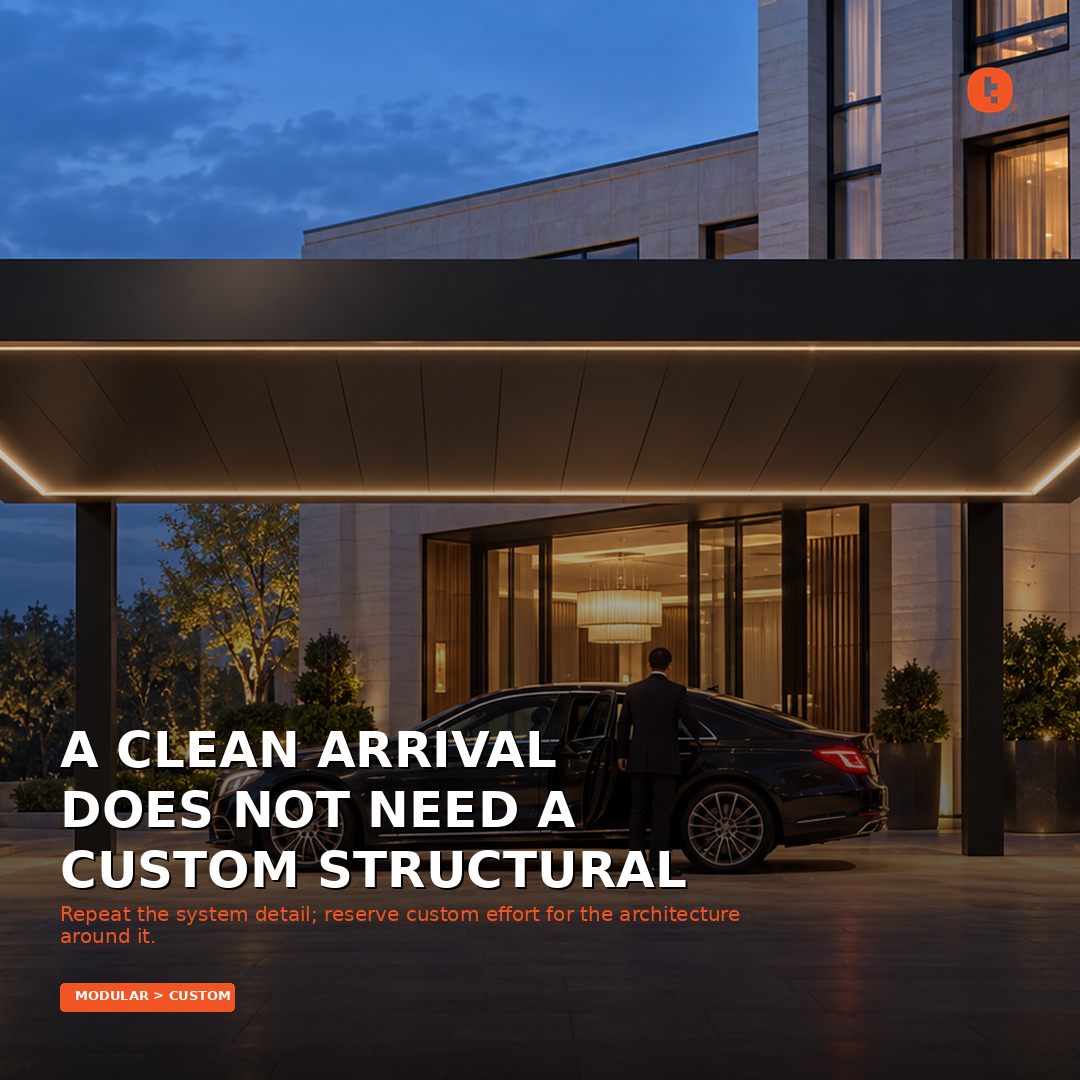
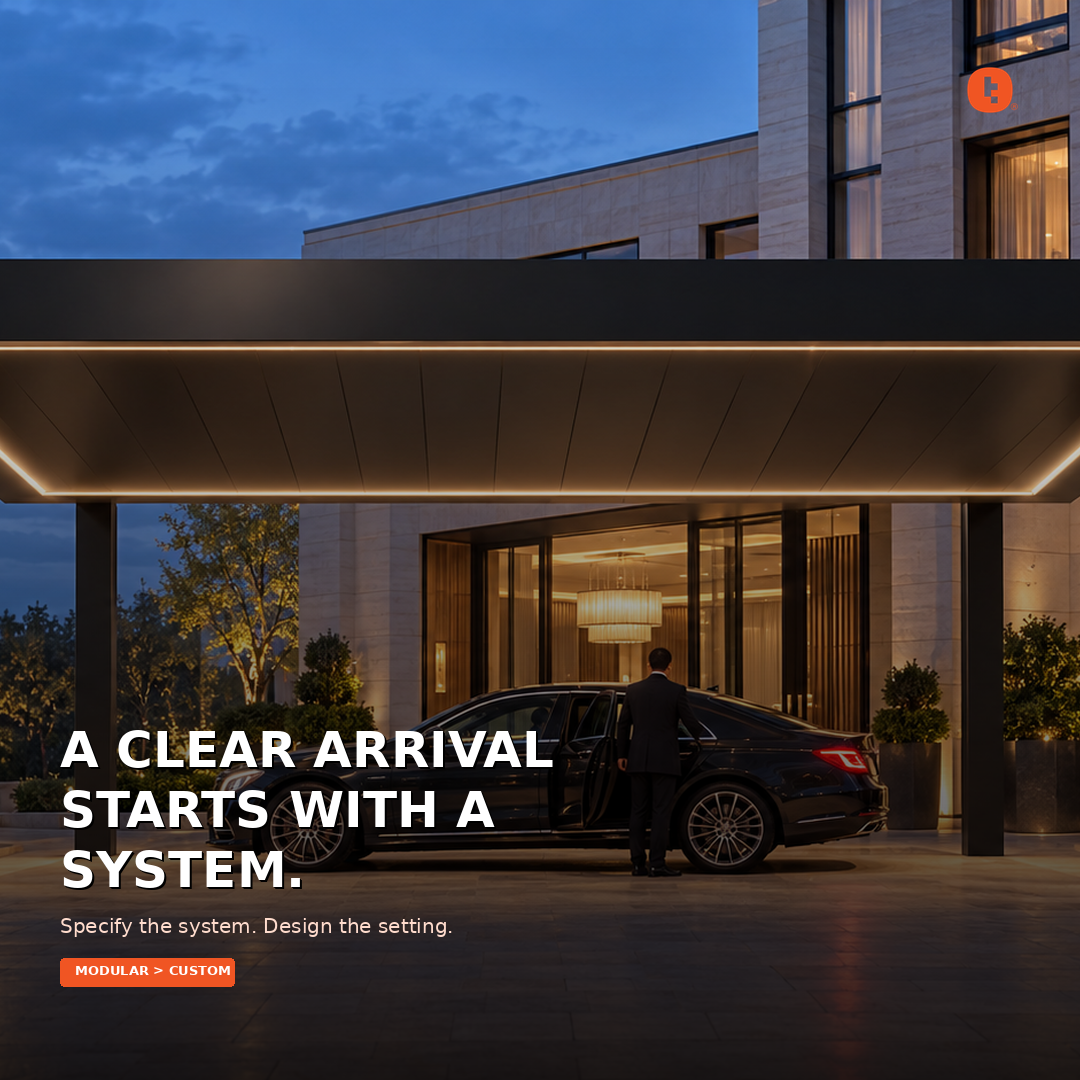
Improve Week 42 review creatives

Changed region(s): [[0.0306, 0.6722, 0.6722, 0.9472]]

diff --git a/index.html b/index.html
@@ -19,11 +19,11 @@ h2 span{font-size:12px;color:var(--teal);margin-left:5px}.grid{display:grid;grid
 </style></head><body>
 <header><h1>Tudelü — Week 2026-W42 Content Review</h1>
 <div class="sub">45 posts ready: Instagram (21), LinkedIn (5), Facebook (5), Pinterest (5), Threads (5), short-form video (3), and Google Business Profile (1). Review each card and use Approve, Revision, or Decline to email feedback. Before publishing, please upload real Tudelü project photos and videos to replace generated placeholder imagery wherever available.</div>
-<nav class="nav"><a href="#instagram">Instagram</a><a href="#linkedin">LinkedIn</a><a href="#facebook">Facebook</a><a href="#pinterest">Pinterest</a><a href="#videos">Videos</a><a href="#threads">Threads</a><a href="#gbp">Google Business Profile</a></nav></header><main><section id="instagram"><h2>Instagram <span>21</span></h2><div class="grid"><article class="tile"><div class="media"><img loading="lazy" src="images/instagram/post_01.png" alt="Instagram 1"/></div><div class="copy"><div class="label">Instagram 1</div><p>Insight: A clean arrival does not need a custom structural answer.
+<nav class="nav"><a href="#instagram">Instagram</a><a href="#linkedin">LinkedIn</a><a href="#facebook">Facebook</a><a href="#pinterest">Pinterest</a><a href="#videos">Videos</a><a href="#threads">Threads</a><a href="#gbp">Google Business Profile</a></nav></header><main><section id="instagram"><h2>Instagram <span>21</span></h2><div class="grid"><article class="tile"><div class="media"><img loading="lazy" src="images/instagram/post_01.png" alt="Instagram 1"/></div><div class="copy"><div class="label">Instagram 1</div><p>Insight: A clear arrival starts with a system.
 
 Explanation: The hotel can feel distinct through its proportions and materials while the canopy detail stays resolved.
 
-Shift: Repeat the system detail; reserve custom effort for the architecture around it.
+Shift: Specify the system. Design the setting.
 
 Tudelü is a click-together modular aluminum system: no welding, concealed connections, a mitered continuous fascia and integrated LED. Four matte powder-coat colors. $60/sqft.</p></div><div class="meta"><div class="actions"><a class="btn approve" href="mailto:chaim.fischer@tudelu.com?subject=Approve%20%E2%80%94%202026-W42%20Instagram%201&amp;body=Notes%20for%202026-W42%20Instagram%201%3A%0A%0A">Approve</a><a class="btn revise" href="mailto:chaim.fischer@tudelu.com?subject=Revision%20%E2%80%94%202026-W42%20Instagram%201&amp;body=Notes%20for%202026-W42%20Instagram%201%3A%0A%0A">Revision</a><a class="btn decline" href="mailto:chaim.fischer@tudelu.com?subject=Decline%20%E2%80%94%202026-W42%20Instagram%201&amp;body=Notes%20for%202026-W42%20Instagram%201%3A%0A%0A">Decline</a></div></div></article><article class="tile"><div class="media"><img loading="lazy" src="images/instagram/post_02.png" alt="Instagram 2"/></div><div class="copy"><div class="label">Instagram 2</div><p>Insight: Consistency is part of the resident experience.
 
@@ -43,25 +43,25 @@ Explanation: Regular bays and concealed connections leave the crew free to focus
 
 Shift: Design out the improvisation before the crew mobilizes.
 
-Tudelü is a click-together modular aluminum system: no welding, concealed connections, a mitered continuous fascia and integrated LED. Four matte powder-coat colors. $60/sqft.</p></div><div class="meta"><div class="actions"><a class="btn approve" href="mailto:chaim.fischer@tudelu.com?subject=Approve%20%E2%80%94%202026-W42%20Instagram%204&amp;body=Notes%20for%202026-W42%20Instagram%204%3A%0A%0A">Approve</a><a class="btn revise" href="mailto:chaim.fischer@tudelu.com?subject=Revision%20%E2%80%94%202026-W42%20Instagram%204&amp;body=Notes%20for%202026-W42%20Instagram%204%3A%0A%0A">Revision</a><a class="btn decline" href="mailto:chaim.fischer@tudelu.com?subject=Decline%20%E2%80%94%202026-W42%20Instagram%204&amp;body=Notes%20for%202026-W42%20Instagram%204%3A%0A%0A">Decline</a></div></div></article><article class="tile"><div class="media"><img loading="lazy" src="images/instagram/post_05.png" alt="Instagram 5"/></div><div class="copy"><div class="label">Instagram 5</div><p>Insight: A product demo should explain the system at a glance.
+Tudelü is a click-together modular aluminum system: no welding, concealed connections, a mitered continuous fascia and integrated LED. Four matte powder-coat colors. $60/sqft.</p></div><div class="meta"><div class="actions"><a class="btn approve" href="mailto:chaim.fischer@tudelu.com?subject=Approve%20%E2%80%94%202026-W42%20Instagram%204&amp;body=Notes%20for%202026-W42%20Instagram%204%3A%0A%0A">Approve</a><a class="btn revise" href="mailto:chaim.fischer@tudelu.com?subject=Revision%20%E2%80%94%202026-W42%20Instagram%204&amp;body=Notes%20for%202026-W42%20Instagram%204%3A%0A%0A">Revision</a><a class="btn decline" href="mailto:chaim.fischer@tudelu.com?subject=Decline%20%E2%80%94%202026-W42%20Instagram%204&amp;body=Notes%20for%202026-W42%20Instagram%204%3A%0A%0A">Decline</a></div></div></article><article class="tile"><div class="media"><img loading="lazy" src="images/instagram/post_05.png" alt="Instagram 5"/></div><div class="copy"><div class="label">Instagram 5</div><p>Insight: A demo should make the system clear.
 
 Explanation: A full-scale sample lets buyers see the post, fascia, finish and hidden light channel in one conversation.
 
 Shift: Make the system tangible; make the sales explanation simpler.
 
-Tudelü is a click-together modular aluminum system: no welding, concealed connections, a mitered continuous fascia and integrated LED. Four matte powder-coat colors. $60/sqft.</p></div><div class="meta"><div class="actions"><a class="btn approve" href="mailto:chaim.fischer@tudelu.com?subject=Approve%20%E2%80%94%202026-W42%20Instagram%205&amp;body=Notes%20for%202026-W42%20Instagram%205%3A%0A%0A">Approve</a><a class="btn revise" href="mailto:chaim.fischer@tudelu.com?subject=Revision%20%E2%80%94%202026-W42%20Instagram%205&amp;body=Notes%20for%202026-W42%20Instagram%205%3A%0A%0A">Revision</a><a class="btn decline" href="mailto:chaim.fischer@tudelu.com?subject=Decline%20%E2%80%94%202026-W42%20Instagram%205&amp;body=Notes%20for%202026-W42%20Instagram%205%3A%0A%0A">Decline</a></div></div></article><article class="tile"><div class="media"><img loading="lazy" src="images/instagram/post_06.png" alt="Instagram 6"/></div><div class="copy"><div class="label">Instagram 6</div><p>Insight: The corner is where the specification becomes visible.
+Tudelü is a click-together modular aluminum system: no welding, concealed connections, a mitered continuous fascia and integrated LED. Four matte powder-coat colors. $60/sqft.</p></div><div class="meta"><div class="actions"><a class="btn approve" href="mailto:chaim.fischer@tudelu.com?subject=Approve%20%E2%80%94%202026-W42%20Instagram%205&amp;body=Notes%20for%202026-W42%20Instagram%205%3A%0A%0A">Approve</a><a class="btn revise" href="mailto:chaim.fischer@tudelu.com?subject=Revision%20%E2%80%94%202026-W42%20Instagram%205&amp;body=Notes%20for%202026-W42%20Instagram%205%3A%0A%0A">Revision</a><a class="btn decline" href="mailto:chaim.fischer@tudelu.com?subject=Decline%20%E2%80%94%202026-W42%20Instagram%205&amp;body=Notes%20for%202026-W42%20Instagram%205%3A%0A%0A">Decline</a></div></div></article><article class="tile"><div class="media"><img loading="lazy" src="images/instagram/post_06.png" alt="Instagram 6"/></div><div class="copy"><div class="label">Instagram 6</div><p>Insight: The corner reveals the real detail.
 
 Explanation: A seamless return makes the fascia read as one continuous extrusion instead of a collection of pieces.
 
 Shift: Evaluate the miter and the connection—not only the elevation.
 
-Tudelü is a click-together modular aluminum system: no welding, concealed connections, a mitered continuous fascia and integrated LED. Four matte powder-coat colors. $60/sqft.</p></div><div class="meta"><div class="actions"><a class="btn approve" href="mailto:chaim.fischer@tudelu.com?subject=Approve%20%E2%80%94%202026-W42%20Instagram%206&amp;body=Notes%20for%202026-W42%20Instagram%206%3A%0A%0A">Approve</a><a class="btn revise" href="mailto:chaim.fischer@tudelu.com?subject=Revision%20%E2%80%94%202026-W42%20Instagram%206&amp;body=Notes%20for%202026-W42%20Instagram%206%3A%0A%0A">Revision</a><a class="btn decline" href="mailto:chaim.fischer@tudelu.com?subject=Decline%20%E2%80%94%202026-W42%20Instagram%206&amp;body=Notes%20for%202026-W42%20Instagram%206%3A%0A%0A">Decline</a></div></div></article><article class="tile"><div class="media"><img loading="lazy" src="images/instagram/post_07.png" alt="Instagram 7"/></div><div class="copy"><div class="label">Instagram 7</div><p>Insight: Good entry lighting is part of the roofline.
+Tudelü is a click-together modular aluminum system: no welding, concealed connections, a mitered continuous fascia and integrated LED. Four matte powder-coat colors. $60/sqft.</p></div><div class="meta"><div class="actions"><a class="btn approve" href="mailto:chaim.fischer@tudelu.com?subject=Approve%20%E2%80%94%202026-W42%20Instagram%206&amp;body=Notes%20for%202026-W42%20Instagram%206%3A%0A%0A">Approve</a><a class="btn revise" href="mailto:chaim.fischer@tudelu.com?subject=Revision%20%E2%80%94%202026-W42%20Instagram%206&amp;body=Notes%20for%202026-W42%20Instagram%206%3A%0A%0A">Revision</a><a class="btn decline" href="mailto:chaim.fischer@tudelu.com?subject=Decline%20%E2%80%94%202026-W42%20Instagram%206&amp;body=Notes%20for%202026-W42%20Instagram%206%3A%0A%0A">Decline</a></div></div></article><article class="tile"><div class="media"><img loading="lazy" src="images/instagram/post_07.png" alt="Instagram 7"/></div><div class="copy"><div class="label">Instagram 7</div><p>Insight: Put the light inside the roofline.
 
 Explanation: A warm continuous LED recessed beneath the fascia lights the threshold without visible fixtures.
 
 Shift: Design the light into the canopy instead of adding it later.
 
-Tudelü is a click-together modular aluminum system: no welding, concealed connections, a mitered continuous fascia and integrated LED. Four matte powder-coat colors. $60/sqft.</p></div><div class="meta"><div class="actions"><a class="btn approve" href="mailto:chaim.fischer@tudelu.com?subject=Approve%20%E2%80%94%202026-W42%20Instagram%207&amp;body=Notes%20for%202026-W42%20Instagram%207%3A%0A%0A">Approve</a><a class="btn revise" href="mailto:chaim.fischer@tudelu.com?subject=Revision%20%E2%80%94%202026-W42%20Instagram%207&amp;body=Notes%20for%202026-W42%20Instagram%207%3A%0A%0A">Revision</a><a class="btn decline" href="mailto:chaim.fischer@tudelu.com?subject=Decline%20%E2%80%94%202026-W42%20Instagram%207&amp;body=Notes%20for%202026-W42%20Instagram%207%3A%0A%0A">Decline</a></div></div></article><article class="tile"><div class="media"><img loading="lazy" src="images/instagram/post_08.png" alt="Instagram 8"/></div><div class="copy"><div class="label">Instagram 8</div><p>Insight: A campus detail should repeat without becoming generic.
+Tudelü is a click-together modular aluminum system: no welding, concealed connections, a mitered continuous fascia and integrated LED. Four matte powder-coat colors. $60/sqft.</p></div><div class="meta"><div class="actions"><a class="btn approve" href="mailto:chaim.fischer@tudelu.com?subject=Approve%20%E2%80%94%202026-W42%20Instagram%207&amp;body=Notes%20for%202026-W42%20Instagram%207%3A%0A%0A">Approve</a><a class="btn revise" href="mailto:chaim.fischer@tudelu.com?subject=Revision%20%E2%80%94%202026-W42%20Instagram%207&amp;body=Notes%20for%202026-W42%20Instagram%207%3A%0A%0A">Revision</a><a class="btn decline" href="mailto:chaim.fischer@tudelu.com?subject=Decline%20%E2%80%94%202026-W42%20Instagram%207&amp;body=Notes%20for%202026-W42%20Instagram%207%3A%0A%0A">Decline</a></div></div></article><article class="tile"><div class="media"><img loading="lazy" src="images/instagram/post_08.png" alt="Instagram 8"/></div><div class="copy"><div class="label">Instagram 8</div><p>Insight: Repeat the detail; keep the campus distinct.
 
 Explanation: Regular bays organize a long pedestrian route while the host buildings keep their own character.
 
@@ -85,7 +85,7 @@ Explanation: The same concealed joint and clean fascia can make sense across res
 
 Shift: Sell repeatability—not another custom-shop exception.
 
-Tudelü is a click-together modular aluminum system: no welding, concealed connections, a mitered continuous fascia and integrated LED. Four matte powder-coat colors. $60/sqft.</p></div><div class="meta"><div class="actions"><a class="btn approve" href="mailto:chaim.fischer@tudelu.com?subject=Approve%20%E2%80%94%202026-W42%20Instagram%2011&amp;body=Notes%20for%202026-W42%20Instagram%2011%3A%0A%0A">Approve</a><a class="btn revise" href="mailto:chaim.fischer@tudelu.com?subject=Revision%20%E2%80%94%202026-W42%20Instagram%2011&amp;body=Notes%20for%202026-W42%20Instagram%2011%3A%0A%0A">Revision</a><a class="btn decline" href="mailto:chaim.fischer@tudelu.com?subject=Decline%20%E2%80%94%202026-W42%20Instagram%2011&amp;body=Notes%20for%202026-W42%20Instagram%2011%3A%0A%0A">Decline</a></div></div></article><article class="tile"><div class="media"><img loading="lazy" src="images/instagram/post_12.png" alt="Instagram 12"/></div><div class="copy"><div class="label">Instagram 12</div><p>Insight: Civic architecture benefits from a quieter threshold.
+Tudelü is a click-together modular aluminum system: no welding, concealed connections, a mitered continuous fascia and integrated LED. Four matte powder-coat colors. $60/sqft.</p></div><div class="meta"><div class="actions"><a class="btn approve" href="mailto:chaim.fischer@tudelu.com?subject=Approve%20%E2%80%94%202026-W42%20Instagram%2011&amp;body=Notes%20for%202026-W42%20Instagram%2011%3A%0A%0A">Approve</a><a class="btn revise" href="mailto:chaim.fischer@tudelu.com?subject=Revision%20%E2%80%94%202026-W42%20Instagram%2011&amp;body=Notes%20for%202026-W42%20Instagram%2011%3A%0A%0A">Revision</a><a class="btn decline" href="mailto:chaim.fischer@tudelu.com?subject=Decline%20%E2%80%94%202026-W42%20Instagram%2011&amp;body=Notes%20for%202026-W42%20Instagram%2011%3A%0A%0A">Decline</a></div></div></article><article class="tile"><div class="media"><img loading="lazy" src="images/instagram/post_12.png" alt="Instagram 12"/></div><div class="copy"><div class="label">Instagram 12</div><p>Insight: Quiet details for civic entries.
 
 Explanation: A generous canopy and warm hidden light make a public entrance legible without adding visual noise.
 
@@ -97,19 +97,19 @@ Explanation: Consistent bays and a matte frame bring order to a compact townhous
 
 Shift: Project scale should not determine the quality of the detail.
 
-Tudelü is a click-together modular aluminum system: no welding, concealed connections, a mitered continuous fascia and integrated LED. Four matte powder-coat colors. $60/sqft.</p></div><div class="meta"><div class="actions"><a class="btn approve" href="mailto:chaim.fischer@tudelu.com?subject=Approve%20%E2%80%94%202026-W42%20Instagram%2013&amp;body=Notes%20for%202026-W42%20Instagram%2013%3A%0A%0A">Approve</a><a class="btn revise" href="mailto:chaim.fischer@tudelu.com?subject=Revision%20%E2%80%94%202026-W42%20Instagram%2013&amp;body=Notes%20for%202026-W42%20Instagram%2013%3A%0A%0A">Revision</a><a class="btn decline" href="mailto:chaim.fischer@tudelu.com?subject=Decline%20%E2%80%94%202026-W42%20Instagram%2013&amp;body=Notes%20for%202026-W42%20Instagram%2013%3A%0A%0A">Decline</a></div></div></article><article class="tile"><div class="media"><img loading="lazy" src="images/instagram/post_14.png" alt="Instagram 14"/></div><div class="copy"><div class="label">Instagram 14</div><p>Insight: A wall connection should not become a site puzzle.
+Tudelü is a click-together modular aluminum system: no welding, concealed connections, a mitered continuous fascia and integrated LED. Four matte powder-coat colors. $60/sqft.</p></div><div class="meta"><div class="actions"><a class="btn approve" href="mailto:chaim.fischer@tudelu.com?subject=Approve%20%E2%80%94%202026-W42%20Instagram%2013&amp;body=Notes%20for%202026-W42%20Instagram%2013%3A%0A%0A">Approve</a><a class="btn revise" href="mailto:chaim.fischer@tudelu.com?subject=Revision%20%E2%80%94%202026-W42%20Instagram%2013&amp;body=Notes%20for%202026-W42%20Instagram%2013%3A%0A%0A">Revision</a><a class="btn decline" href="mailto:chaim.fischer@tudelu.com?subject=Decline%20%E2%80%94%202026-W42%20Instagram%2013&amp;body=Notes%20for%202026-W42%20Instagram%2013%3A%0A%0A">Decline</a></div></div></article><article class="tile"><div class="media"><img loading="lazy" src="images/instagram/post_14.png" alt="Instagram 14"/></div><div class="copy"><div class="label">Instagram 14</div><p>Insight: Resolve the wall connection upstream.
 
 Explanation: A single intentional rod brace and concealed profile connections keep the entry assembly legible.
 
 Shift: Resolve the support in the system, not in a field improvisation.
 
-Tudelü is a click-together modular aluminum system: no welding, concealed connections, a mitered continuous fascia and integrated LED. Four matte powder-coat colors. $60/sqft.</p></div><div class="meta"><div class="actions"><a class="btn approve" href="mailto:chaim.fischer@tudelu.com?subject=Approve%20%E2%80%94%202026-W42%20Instagram%2014&amp;body=Notes%20for%202026-W42%20Instagram%2014%3A%0A%0A">Approve</a><a class="btn revise" href="mailto:chaim.fischer@tudelu.com?subject=Revision%20%E2%80%94%202026-W42%20Instagram%2014&amp;body=Notes%20for%202026-W42%20Instagram%2014%3A%0A%0A">Revision</a><a class="btn decline" href="mailto:chaim.fischer@tudelu.com?subject=Decline%20%E2%80%94%202026-W42%20Instagram%2014&amp;body=Notes%20for%202026-W42%20Instagram%2014%3A%0A%0A">Decline</a></div></div></article><article class="tile"><div class="media"><img loading="lazy" src="images/instagram/post_15.png" alt="Instagram 15"/></div><div class="copy"><div class="label">Instagram 15</div><p>Insight: Design for the daily queue, not the opening-day photo.
+Tudelü is a click-together modular aluminum system: no welding, concealed connections, a mitered continuous fascia and integrated LED. Four matte powder-coat colors. $60/sqft.</p></div><div class="meta"><div class="actions"><a class="btn approve" href="mailto:chaim.fischer@tudelu.com?subject=Approve%20%E2%80%94%202026-W42%20Instagram%2014&amp;body=Notes%20for%202026-W42%20Instagram%2014%3A%0A%0A">Approve</a><a class="btn revise" href="mailto:chaim.fischer@tudelu.com?subject=Revision%20%E2%80%94%202026-W42%20Instagram%2014&amp;body=Notes%20for%202026-W42%20Instagram%2014%3A%0A%0A">Revision</a><a class="btn decline" href="mailto:chaim.fischer@tudelu.com?subject=Decline%20%E2%80%94%202026-W42%20Instagram%2014&amp;body=Notes%20for%202026-W42%20Instagram%2014%3A%0A%0A">Decline</a></div></div></article><article class="tile"><div class="media"><img loading="lazy" src="images/instagram/post_15.png" alt="Instagram 15"/></div><div class="copy"><div class="label">Instagram 15</div><p>Insight: Design for the daily queue.
 
 Explanation: A clear repeated roofline gives transit users a legible place to wait and move through.
 
 Shift: Let the everyday pattern set the design priorities.
 
-Tudelü is a click-together modular aluminum system: no welding, concealed connections, a mitered continuous fascia and integrated LED. Four matte powder-coat colors. $60/sqft.</p></div><div class="meta"><div class="actions"><a class="btn approve" href="mailto:chaim.fischer@tudelu.com?subject=Approve%20%E2%80%94%202026-W42%20Instagram%2015&amp;body=Notes%20for%202026-W42%20Instagram%2015%3A%0A%0A">Approve</a><a class="btn revise" href="mailto:chaim.fischer@tudelu.com?subject=Revision%20%E2%80%94%202026-W42%20Instagram%2015&amp;body=Notes%20for%202026-W42%20Instagram%2015%3A%0A%0A">Revision</a><a class="btn decline" href="mailto:chaim.fischer@tudelu.com?subject=Decline%20%E2%80%94%202026-W42%20Instagram%2015&amp;body=Notes%20for%202026-W42%20Instagram%2015%3A%0A%0A">Decline</a></div></div></article><article class="tile"><div class="media"><img loading="lazy" src="images/instagram/post_16.png" alt="Instagram 16"/></div><div class="copy"><div class="label">Instagram 16</div><p>Insight: The most useful product story is easy to retell.
+Tudelü is a click-together modular aluminum system: no welding, concealed connections, a mitered continuous fascia and integrated LED. Four matte powder-coat colors. $60/sqft.</p></div><div class="meta"><div class="actions"><a class="btn approve" href="mailto:chaim.fischer@tudelu.com?subject=Approve%20%E2%80%94%202026-W42%20Instagram%2015&amp;body=Notes%20for%202026-W42%20Instagram%2015%3A%0A%0A">Approve</a><a class="btn revise" href="mailto:chaim.fischer@tudelu.com?subject=Revision%20%E2%80%94%202026-W42%20Instagram%2015&amp;body=Notes%20for%202026-W42%20Instagram%2015%3A%0A%0A">Revision</a><a class="btn decline" href="mailto:chaim.fischer@tudelu.com?subject=Decline%20%E2%80%94%202026-W42%20Instagram%2015&amp;body=Notes%20for%202026-W42%20Instagram%2015%3A%0A%0A">Decline</a></div></div></article><article class="tile"><div class="media"><img loading="lazy" src="images/instagram/post_16.png" alt="Instagram 16"/></div><div class="copy"><div class="label">Instagram 16</div><p>Insight: A clear system story travels.
 
 Explanation: Click-together aluminum, four finishes and integrated lighting translate into benefits a customer can picture.
 
@@ -139,7 +139,7 @@ Explanation: A regular bay module gives a recreation center a consistent arrival
 
 Shift: Build the repeatable answer once; use it wherever shelter is needed.
 
-Tudelü is a click-together modular aluminum system: no welding, concealed connections, a mitered continuous fascia and integrated LED. Four matte powder-coat colors. $60/sqft.</p></div><div class="meta"><div class="actions"><a class="btn approve" href="mailto:chaim.fischer@tudelu.com?subject=Approve%20%E2%80%94%202026-W42%20Instagram%2020&amp;body=Notes%20for%202026-W42%20Instagram%2020%3A%0A%0A">Approve</a><a class="btn revise" href="mailto:chaim.fischer@tudelu.com?subject=Revision%20%E2%80%94%202026-W42%20Instagram%2020&amp;body=Notes%20for%202026-W42%20Instagram%2020%3A%0A%0A">Revision</a><a class="btn decline" href="mailto:chaim.fischer@tudelu.com?subject=Decline%20%E2%80%94%202026-W42%20Instagram%2020&amp;body=Notes%20for%202026-W42%20Instagram%2020%3A%0A%0A">Decline</a></div></div></article><article class="tile"><div class="media"><img loading="lazy" src="images/instagram/post_21.png" alt="Instagram 21"/></div><div class="copy"><div class="label">Instagram 21</div><p>Insight: One roofline can connect very different uses.
+Tudelü is a click-together modular aluminum system: no welding, concealed connections, a mitered continuous fascia and integrated LED. Four matte powder-coat colors. $60/sqft.</p></div><div class="meta"><div class="actions"><a class="btn approve" href="mailto:chaim.fischer@tudelu.com?subject=Approve%20%E2%80%94%202026-W42%20Instagram%2020&amp;body=Notes%20for%202026-W42%20Instagram%2020%3A%0A%0A">Approve</a><a class="btn revise" href="mailto:chaim.fischer@tudelu.com?subject=Revision%20%E2%80%94%202026-W42%20Instagram%2020&amp;body=Notes%20for%202026-W42%20Instagram%2020%3A%0A%0A">Revision</a><a class="btn decline" href="mailto:chaim.fischer@tudelu.com?subject=Decline%20%E2%80%94%202026-W42%20Instagram%2020&amp;body=Notes%20for%202026-W42%20Instagram%2020%3A%0A%0A">Decline</a></div></div></article><article class="tile"><div class="media"><img loading="lazy" src="images/instagram/post_21.png" alt="Instagram 21"/></div><div class="copy"><div class="label">Instagram 21</div><p>Insight: Different sites. One clear system.
 
 Explanation: A shared system language can frame retail glazing and residential arrivals without erasing their differences.
 
